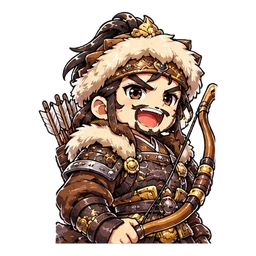
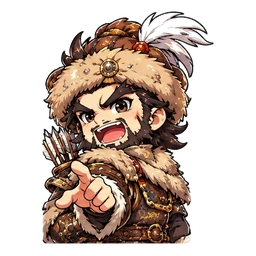
v6.4c 군주·B급 20명 초상 배포 (?v=133)
- 5×2 시트 2장에서 잘라 낸 20명 초상(투명 256 WebP)
  · 6탄: 세력 군주 10인(유표·사섭·마등·도겸·한수·공융·유요·엄백호·왕랑·장로)
  · 7탄: 이지란·주창 재제작(기존 v64b 파일 05_·35_ 덮어씀) + B급 8인(육적·손호·관해·고국원왕·이의방·안향·신돈·원균)
- assets/portraits/v64c/ 18장 + data/v64c_art_manifest.json, loadTopArt 맨 마지막 추가
- 캐시버스터 ?v=132 → ?v=133 (index·manifest·game.css·battle.js·sw.js·SK.ASSET_V)

diff --git a/index.html b/index.html
@@ -25,10 +25,10 @@
 <meta name="apple-mobile-web-app-status-bar-style" content="default" />
 <title>삼국지-꼬마영웅 난타전</title>
 <link rel="manifest" href="manifest.webmanifest" />
-<link rel="apple-touch-icon" href="assets/icons/apple-touch-icon.png?v=132" />
+<link rel="apple-touch-icon" href="assets/icons/apple-touch-icon.png?v=133" />
 <meta name="apple-mobile-web-app-title" content="삼국지-꼬마영웅 난타전" />
-<link rel="stylesheet" href="css/game.css?v=132" />
-<link rel="icon" type="image/png" href="assets/icons/icon-192.png?v=132" />
+<link rel="stylesheet" href="css/game.css?v=133" />
+<link rel="icon" type="image/png" href="assets/icons/icon-192.png?v=133" />
 </head>
 <body>
 <!-- ═══ 그림 아이콘 모음 (한자 대신 쓰는 인라인 SVG) ═══ -->
@@ -533,33 +533,33 @@
   window.addEventListener('error', function (e) { window.__errs.push(String((e && e.message) || e)); });
   window.addEventListener('unhandledrejection', function (e) { window.__errs.push('rejection: ' + String(e && e.reason)); });
 </script>
-<script src="js/mapgeo.js?v=132"></script>
-<script src="js/mapmask.js?v=132"></script>
-<script src="js/city_geo.js?v=132"></script>
-<script src="js/data.js?v=132"></script>
-<script src="js/comedy_v64b.js?v=132"></script>
-<script src="js/ult_v582.js?v=132"></script>
-<script src="js/patch_v584.js?v=132"></script>
-<script src="js/bgm.js?v=132"></script>
-<script src="js/sfx.js?v=132"></script>
-<script src="js/app.js?v=132"></script>
-<script src="js/map.js?v=132"></script>
-<script src="js/battle.js?v=132"></script>
-<script src="js/tutorial.js?v=132"></script>
-<script src="js/expedition.js?v=132"></script>
-<script src="js/backguard.js?v=132"></script>
-<script src="js/admin.js?v=132"></script>
+<script src="js/mapgeo.js?v=133"></script>
+<script src="js/mapmask.js?v=133"></script>
+<script src="js/city_geo.js?v=133"></script>
+<script src="js/data.js?v=133"></script>
+<script src="js/comedy_v64b.js?v=133"></script>
+<script src="js/ult_v582.js?v=133"></script>
+<script src="js/patch_v584.js?v=133"></script>
+<script src="js/bgm.js?v=133"></script>
+<script src="js/sfx.js?v=133"></script>
+<script src="js/app.js?v=133"></script>
+<script src="js/map.js?v=133"></script>
+<script src="js/battle.js?v=133"></script>
+<script src="js/tutorial.js?v=133"></script>
+<script src="js/expedition.js?v=133"></script>
+<script src="js/backguard.js?v=133"></script>
+<script src="js/admin.js?v=133"></script>
 <!-- v5.86 — 민첩(병과 agi+무력 보정) 명중·회피 · 운(매력) 상태저항·치명 · 관리자 숨은 스탯
      (전투 계산은 js/battle.js v5.86 블록, 편집 UI는 js/admin.js — admin=1 에서만) -->
 <!-- v5.85 — 관리자 전장맵·천하맵 에디터 (admin=1 에서만 동작, 일반 주소는 아무것도 만들지 않음) -->
 <!-- v5.86a — 전장맵 [💾 내 맵 저장] 슬롯: 여러 새 맵 보관·불러오기·삭제 (같은 관리자 파일 안, admin=1 에서만) -->
 <!-- v5.86b — 커스텀(에디터) 전장은 통이미지 대신 칠한 타일(강물·다리·성벽·성문…)을 그대로 직접 렌더링
      (battle.js v5.86b B.customTilesRender · 정식 12종 전장은 battle_*.webp 그대로) -->
-<script src="js/patch_v585_map_editor.js?v=132"></script>
+<script src="js/patch_v585_map_editor.js?v=133"></script>
 <script>/* v5.50 — 통과(cache-free) 서비스 워커 등록: 크롬 '앱 설치'(주소창 없는 standalone) 요건 */
   if ('serviceWorker' in navigator) {
     window.addEventListener('load', function () {
-      navigator.serviceWorker.register('./sw.js?v=132').catch(function () { /* 설치 환경 아니면 조용히 넘어간다 */ });
+      navigator.serviceWorker.register('./sw.js?v=133').catch(function () { /* 설치 환경 아니면 조용히 넘어간다 */ });
     });
   }
 </script>

diff --git a/sw.js b/sw.js
@@ -54,6 +54,7 @@
    v6.1 — 등록 쿼리를 ?v=127로 올렸다(조조전 스타일 전장 비주얼 — 은은한 격자선·이동/사거리 강조, 지형 질감·오토타일링, 숲 빈터·갈대밭 전경 엄폐, 2.5D 그림자, 통이미지 전장까지 16종 일관 적용, 내용·동작은 그대로, 캐시 없음).
    v6.2 — 등록 쿼리를 ?v=128로 올렸다(원정 시나리오 2·3막 확장 — 1~3막 30관문·막 탭 해금, 랭킹전을 실제 AI 랭커 덱과의 3×3 실전투로(순위 상승·공훈), 장비 분해/강화(+1~+5)·정련석, 보스 토벌전(장각·여포·동탁·원소 등), 내용·동작은 그대로, 캐시 없음).
    v6.3 — 등록 쿼리를 ?v=129로 올렸다(원정 3×3 전투씬 애니메이션·타격감 개편 — 유닛 3겹 스프라이트로 방향 전환(HP 배지는 안 뒤집힘)·대기 호흡·걸음 바운스·발밑 흙먼지, 병과별 예비동작→타격/발사→복귀 타임라인, 회전 반달 칼바람·화살/마법탄 궤적·돌진 잔상, 피격 넉백·히트/크리티컬 플래시·전장 흔들림·쓰러지는 사망 연출, 일시정지 버튼과 종료 시 이펙트/타이머 정리, 내용·밸런스·세이브는 그대로, 캐시 없음).
+   v6.4c — 등록 쿼리를 ?v=133로 올렸다(5×2 초상 시트 2장에서 잘라 낸 20명 초상(투명 256 WebP)—세력 군주 10인(유표·사섭·마등·도겸·한수·공융·유요·엄백호·왕랑·장로)과 이지란·주창 재제작판(v64b 파일 덮어씀) + B급 8인(육적·손호·관해·고국원왕·이의방·안향·신돈·원균)을 초상 매니페스트(v64c)로 연결, 닫힌 순백 틈까지 투명화. 내용·밸런스·세이브는 그대로, 캐시 없음).
    v6.4b — 등록 쿼리를 ?v=132로 올렸다(5×2 초상 시트 5장에서 잘라 낸 50명 초상(투명 256 WebP)—한국 재야 19인(유금필·이자연·이지란·박지원·김방경 등)·A·B급 31인(여몽·원소·동탁·간옹·포삼량 등)을 초상 매니페스트(v64b)로 연결, 닫힌 순백 틈까지 투명화. 그리고 장수 대사 4종·일기토 말풍선·성 안 시민 말풍선·주점·내정·포상·멸망 한마디에 코믹 개그 대사를 병합. 내용·밸런스·세이브는 그대로, 캐시 없음).
    v6.4a — 등록 쿼리를 ?v=131로 올렸다(대사 톤을 귀엽고 코믹한 꼬마영웅 난투 컨셉으로 복구 — 표지·시나리오·세력 한 줄·개전 창·연표 문구를 v6.3까지의 유쾌한 말투로 되돌리고, 거칠거나 과하게 건방진 표현('쫄리면 뒈지시던가~' 등)만 '도망치기 없기! 한 판 붙어 보자~'처럼 순화. v6.4의 튜토리얼 글자 잘림 수정·안내 최신화, 일기토 5%·연출은 그대로, 내용·밸런스·세이브는 그대로, 캐시 없음).
    v6.4 — 등록 쿼리를 ?v=130로 올렸다(본편 1:1 일기토 확률 기본 5%(4.5~9% 무력 가중) 상향 + 일기토 전투 연출을 원정 v6.3 전투씬처럼 개편 — 예비동작(뒤로 젖힘)→돌진(잔상·흙먼지)→반달 칼바람·스파크·임팩트 링→피격 넉백·히트 플래시→복귀, 승리 도약·패배 쓰러짐, 배속 연동과 종료 시 타이머/VFX 정리. 튜토리얼 안내 문구 최신화(전략 지형·기술 연구·조조전식 전장)와 튜토리얼 목록 글자 잘림 수정, 초기 시나리오·표지 말투 정리, 내용·밸런스·세이브는 그대로, 캐시 없음).

diff --git a/css/game.css b/css/game.css
@@ -4658,7 +4658,7 @@ input[type="range"].rp-range { width: 100%; height: 22px; }
 
 .duel-stage {
   position: relative; flex: 1; min-height: 0; margin: 1px 0; border-radius: 16px; border: 2px solid #c59b4f;
-  overflow: hidden; background: #2a1a0b url('../assets/duel_arena_bg.webp?v=132') center 58% / cover no-repeat;
+  overflow: hidden; background: #2a1a0b url('../assets/duel_arena_bg.webp?v=133') center 58% / cover no-repeat;
   box-shadow: 0 8px 24px rgba(0, 0, 0, 0.6), inset 0 0 24px rgba(0, 0, 0, 0.35);
 }
 .duel-banner {
@@ -6058,7 +6058,7 @@ img.tier-S, img.tier-A, img.tier-B, img.tier-C {
     radial-gradient(112% 52% at 50% 44%, rgba(255, 216, 148, 0.28), rgba(120, 74, 26, 0) 66%),
     linear-gradient(180deg, rgba(6, 3, 1, 0.92) 0%, rgba(14, 9, 4, 0.58) 9%, rgba(30, 19, 9, 0.16) 24%,
       rgba(30, 19, 9, 0) 48%, rgba(30, 19, 9, 0.14) 72%, rgba(12, 7, 3, 0.52) 92%, rgba(4, 2, 1, 0.9) 100%),
-    url('../assets/duel_arena_bg.webp?v=132') center 62% / auto 150% no-repeat;
+    url('../assets/duel_arena_bg.webp?v=133') center 62% / auto 150% no-repeat;
 }
 .eb-ground::after {
   content: ''; position: absolute; inset: 0;
@@ -6567,7 +6567,7 @@ img.tier-S, img.tier-A, img.tier-B, img.tier-C {
 #expRoot .sx-gs{font-size:11px;color:#ffd76a;white-space:nowrap}
 
 /* ---- 전투 ---- */
-#expRoot .bt-bg{position:absolute;inset:0;background:url(../assets/duel_arena_bg.webp?v=132) center/cover no-repeat,#352a1c}
+#expRoot .bt-bg{position:absolute;inset:0;background:url(../assets/duel_arena_bg.webp?v=133) center/cover no-repeat,#352a1c}
 #expRoot .bt-bg::after{content:"";position:absolute;inset:0;background:radial-gradient(#0000 45%,#000a 100%)}
 #expRoot .bt-hud{position:absolute;left:0;right:0;top:0;height:64px;padding:8px 8px 0;display:grid;grid-template-columns:1fr 54px 1fr;gap:6px;align-items:start;background:linear-gradient(#000d,#0000);z-index:300}
 #expRoot .bt-side small{font-size:10px;color:#ddd}

diff --git a/js/app.js b/js/app.js
@@ -2421,6 +2421,12 @@
         const r8 = await fetch('data/v64b_art_manifest.json', { cache: 'no-cache' });
         if (r8.ok) SK.addTopArt(await r8.json());
       } catch (e8) { console.warn('v6.4b 50명 초상 목록을 불러오지 못했습니다.', e8); }
+      /* v6.4c — 5×2 시트 2장에서 잘라 낸 20명(세력 군주 10 + 이지란·주창 재제작·B급 8) 초상.
+         이지란·주창은 v64b 파일을 덮어썼고, 나머지 18명은 v64c 폴더에 새로 넣었다. 맨 마지막에 얹어 이 그림이 이긴다. */
+      try {
+        const r9 = await fetch('data/v64c_art_manifest.json', { cache: 'no-cache' });
+        if (r9.ok) SK.addTopArt(await r9.json());
+      } catch (e9) { console.warn('v6.4c 20명 초상 목록을 불러오지 못했습니다.', e9); }
       applyLordArt();
       return true;
     } catch (e) { console.warn('전용 일러스트 목록을 불러오지 못했습니다.', e); return false; }

diff --git a/js/data.js b/js/data.js
@@ -1394,7 +1394,7 @@ SK.addTopArt = function (manifest) {
   });
 };
 SK.artFor = function (name) { return SK.ART[name] || null; };
-SK.ASSET_V = '132';   /* 초상 파일을 덮어써도 폰이 옛 그림을 들고 있지 않게 — 파일 경로에도 붙인다 */
+SK.ASSET_V = '133';   /* 초상 파일을 덮어써도 폰이 옛 그림을 들고 있지 않게 — 파일 경로에도 붙인다 */
 SK.ptSrc = function (p) {
   if (!p) return 'assets/portraits/v2/gen_bobyung.webp?v=' + SK.ASSET_V;
   /* v5.89b — 전용 초상(v579·a_rank 등)도 같은 파일명으로 덮어썼으므로 경로 끝에 ?v= 를 붙여

diff --git a/js/battle.js b/js/battle.js
@@ -6343,7 +6343,7 @@
 
   function ensureDuelDom() {
     if (duelEls && document.body.contains(duelEls.root)) return duelEls;
-    try { const pre = new Image(); pre.src = 'assets/duel_arena_bg.webp?v=132'; } catch (e) { /* ignore */ }
+    try { const pre = new Image(); pre.src = 'assets/duel_arena_bg.webp?v=133'; } catch (e) { /* ignore */ }
     const root = document.createElement('div');
     root.id = 'duel-arena';
     root.className = 'duel-arena';
